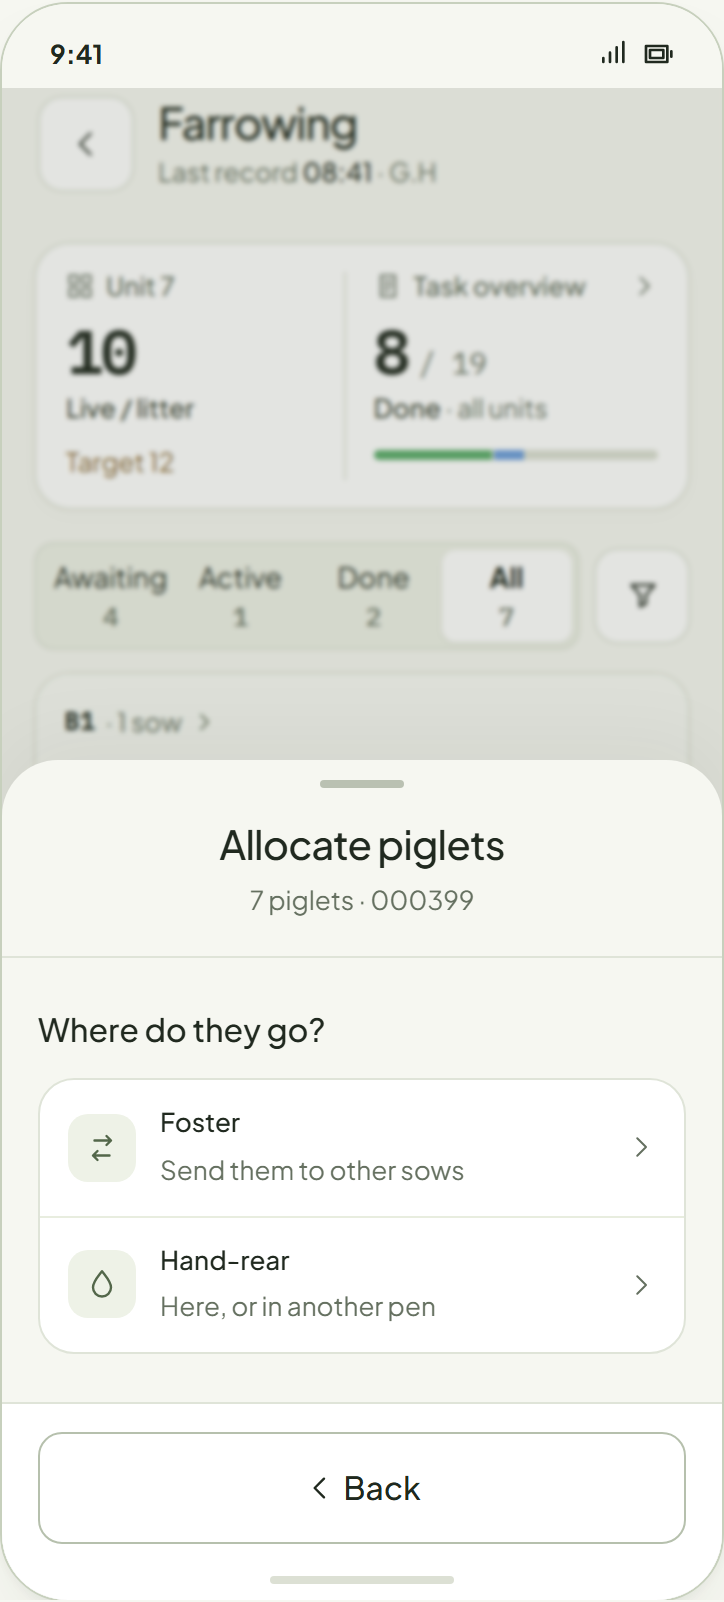
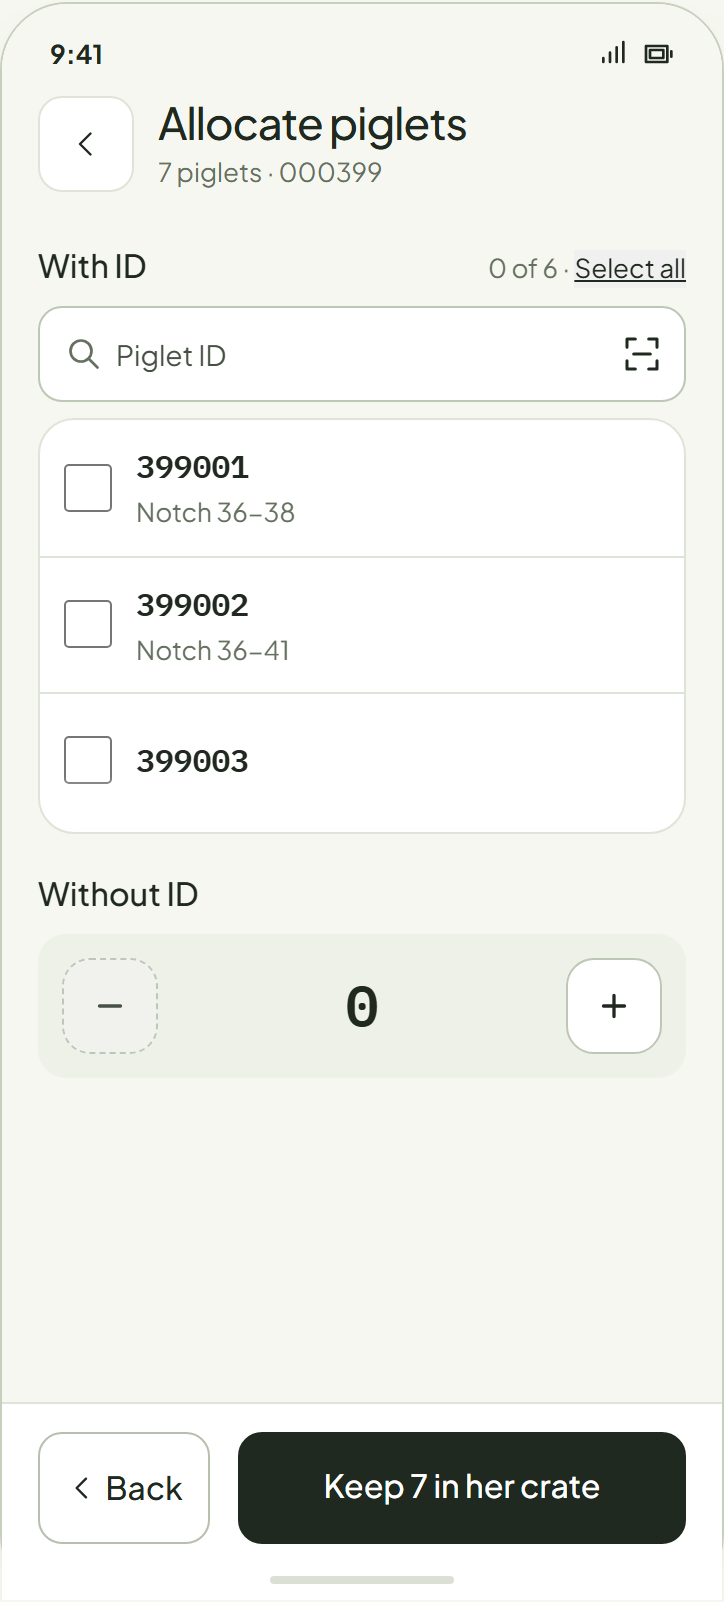
Allocate is her litter's piglet list: tick piglets (search, scan, a count without ID), then Move to a pen or Send to a sow; each takes them off the list into Sent and moved; what is left is kept in her crate (Keep N in her crate). The Foster / Hand-rear question and the Hand-rear drawer go

diff --git a/ux/system/farrowing-astra-concept.js b/ux/system/farrowing-astra-concept.js
@@ -138,28 +138,27 @@ function act(s,a,v){
  // Allocate piglets (owner, 2026-11-02): a menu drawer of three verbs; each pushes its own page and Back returns to the drawer. Foster
  // is the Foster piglets page itself, foster off only (Foster on is there, disabled); each save comes back to it while piglets are left,
  // so 3 can go to one sow and 3 to another. Hand-rear and the rearing pen take what is left, from their pages.
- if(a==='allocFoster'){s.featureReturn='allocate';s.fosterDraft=fosterStart(s,s.alive);s.view='foster';}
- if(a==='allocHandPage'){s.handDraft={moves:[]};s.view='allocHand';}
- // Hand-rear (owner, 2026-11-03): they stay in her crate unless moved; Move some to another pen adds a pen with a count, so 2 can go to
- // one pen and 5 to another. Her crate keeps what is not moved.
- if(a==='handAddPen'){s.handDraft.q='';s.handDraft.scanning=false;s.view='allocHandPen';}
- if(a==='handPenClear')s.handDraft.q='';
- if(a==='handPenScan'){s.handDraft.scanning=roomContext(s).scan.connected?true:'waiting';s.handDraft.q='';}
- if(a==='handPenScanStop')s.handDraft.scanning=false;
- if(a==='handPen'){const [unit,pen]=String(v).split('|'),m=s.handDraft.moves;if(!m.some(x=>x.unit===unit&&x.pen===pen)&&handCrate(s)>0)m.push({unit,pen,n:1});s.handDraft.scanning=false;s.view='allocHand';}
- if(a==='handCount'){const [i,d]=String(v).split(',').map(Number),m=s.handDraft.moves[i];if(m){m.n=Math.max(0,Math.min(m.n+handCrate(s),m.n+d));if(!m.n)s.handDraft.moves.splice(i,1);}}
- // Allocate's sow picker opens filtered to her own unit. The filter is the room's (expected farrowing, parity) plus the unit, whose chips
- // reach the batch's other units; All is no unit filter (owner, 2026-11-02). The sheet works on a draft: Show N sows applies it, Reset
- // returns to the defaults (her unit, any time, any parity), Back drops it.
+ // Allocate piglets (owner, 2026-11-03): her litter's piglet list. Tick piglets (with an ID by tick, search or scan; without one by a
+ // count), then Send to a sow or Move to a pen; each takes its piglets off the list. The ones left stay: Keep N in her crate hand-rears them.
+ if(a==='allocAll'){const f=allocDraft(s),all=fosterIds(s).map(p=>p.tag),full=f.ids.length===all.length&&f.count===fosterNoId(s);f.ids=full?[]:all;f.count=full?0:fosterNoId(s);}
+ if(a==='allocToSow'&&allocPicked(s)){s.featureReturn='allocate';Object.assign(s.fosterDraft,{q:'',scanning:false,direction:'out',target:''});s.view='foster';}
+ if(a==='allocToPen'&&allocPicked(s)){Object.assign(s.fosterDraft,{penQ:'',penScan:false});s.view='allocPen';}
+ if(a==='allocPenClear')s.fosterDraft.penQ='';
+ if(a==='allocPenScan'){s.fosterDraft.penScan=roomContext(s).scan.connected?true:'waiting';s.fosterDraft.penQ='';}
+ if(a==='allocPenScanStop')s.fosterDraft.penScan=false;
+ if(a==='allocPen'){const f=s.fosterDraft,[unit,pen]=String(v).split('|'),c=roomContext(s),ids=f.ids.slice(),n=ids.length+f.count;if(!n)return;
+  s.piglets=s.piglets.filter(p=>!ids.includes(p.tag));s.alive-=n;s.moved=(s.moved||0)+n;s.unidentified=fosterNoId(s);s.anchor=born(s);
+  const where=`${rowText.pen(pen)} · ${farmUnit(c,unit).name}`;event(s,`${n} piglet${n===1?'':'s'} moved to ${where}${ids.length?' · ID '+ids.join(', '):''}`,'milestone');
+  (s.allocSent||=[]).push({kind:'moved',where,n,ids});s.fosterDraft=null;s.view=toAllocate(s)?'allocate':'room';}
  if(a==='fosterFilter'){s.fosterDraft.filtering=true;s.fosterDraft.filterDraft=clone(s.fosterDraft.filter);}
  if(a==='fosterUnit')s.fosterDraft.filterDraft.unit=v;
  if(a==='fosterFilterReset')s.fosterDraft.filterDraft=fosterFilterDefault(s);
  if(a==='fosterFilterApply'){s.fosterDraft.filter=s.fosterDraft.filterDraft;s.fosterDraft.filtering=false;}
  if(a==='fosterFilterBack')s.fosterDraft.filtering=false;
- if(a==='allocMove')act(s,'allocFoster');
- if(a==='allocHand'){const n=s.alive,moves=(s.handDraft?.moves||[]).filter(m=>m.n),out=sum(moves.map(m=>m.n)),crate=n-out,c=roomContext(s);s.handReared={at:'09:41',who:'G.H',crate,moves};if(out){s.alive-=out;s.moved=(s.moved||0)+out;s.unidentified=Math.max(0,(s.unidentified||0)-out);s.anchor=born(s);}
-  event(s,[`${n} piglet${n===1?'':'s'} hand-reared`,crate?`${crate} in her crate`:'',...moves.map(m=>`${m.n} to ${farmUnit(c,m.unit).name} · ${m.pen}`)].filter(Boolean).join(' · '),'milestone');s.handDraft=null;s.view='room';}
+ if(a==='allocMove')s.view='allocate';
+ if(a==='allocHand'){const n=s.alive;s.handReared={at:'09:41',who:'G.H'};event(s,`${n} piglet${n===1?'':'s'} hand-reared in her crate`,'milestone');s.fosterDraft=null;s.view='room';}   // the ones left stay
  if(a==='fosterDirection'){s.fosterDraft.direction=v;s.fosterDraft.start=1;s.fosterDraft.target='';}   // the page's first choice: send to, or receive from, the sow tapped next
+ if(a==='fosterPick'&&s.featureReturn==='allocate'){s.fosterDraft.target=v;s.view='allocConfirm';return;}   // the piglets are already chosen: confirm the sow
  if(a==='fosterPick'){const f=s.fosterDraft;f.target=v;f.start=Math.min(f.start,s.alive);fosterOpen(s);s.view='fosterSend';}   // a tap or a read pushes Foster off (or on): who, and how many
  if(a==='fosterId'){const f=s.fosterDraft,k=f.ids.indexOf(v);if(k<0)f.ids.push(v);else f.ids.splice(k,1);}
  // The ID list searches by piglet ID, or scans: each read ticks that piglet (a multi-select place, owner 2026-10-22), never unticks.
@@ -176,8 +175,8 @@ function act(s,a,v){
   ids.forEach(tag=>{const i=(from.piglets||[]).findIndex(p=>p.tag===tag);if(i>=0)(to.piglets||=[]).push(from.piglets.splice(i,1)[0]);});
   from.alive-=n;from.moved=(from.moved||0)+n;to.alive+=n;to.moved=(to.moved||0)-n;from.unidentified=fosterNoId(from);to.unidentified=fosterNoId(to);[from,to].forEach(r=>{if(!r.locked)r.anchor=born(r);});
   event(s,`${word} ${out?'to':'from'} ${other.tag}${idText}`,'milestone');event(other,`${word} ${out?'from':'to'} ${s.tag}${idText}`,'milestone');f.target='';f.ids=[];
-  if(s.featureReturn==='allocate')(s.allocSent||=[]).push({tag:other.tag,pen:other.pen,n,ids});   // Allocate lists what has gone where
-  if(s.featureReturn==='allocate'){s.view=toAllocate(s)?'foster':'room';}else if(s.featureReturn==='pigletCare'){s.pigletTab='records';s.view='pigletCare';}else{s.actionsEntry=true;s.view='profile';}}
+  if(s.featureReturn==='allocate')(s.allocSent||=[]).push({kind:'sent',tag:other.tag,pen:other.pen,n,ids});   // Allocate lists what has gone where
+  if(s.featureReturn==='allocate'){s.fosterDraft=null;s.view=toAllocate(s)?'allocate':'room';}else if(s.featureReturn==='pigletCare'){s.pigletTab='records';s.view='pigletCare';}else{s.actionsEntry=true;s.view='profile';}}
  if(a==='openMortality'){if(!s.pigletSelected.length&&!s.unidentified)return;s.mortalityDraft={cause:'',unidentified:0,photos:[]};s.view='pigletDeath';}
  if(a==='mortalityCount'){const max=Math.min(s.unidentified,s.alive-s.pigletSelected.length);s.mortalityDraft.unidentified=Math.max(0,Math.min(max,s.mortalityDraft.unidentified+Number(v)));}
  if(a==='savePigletMortality'){const f=s.mortalityDraft,total=s.pigletSelected.length+f.unidentified;if(!f.cause||!total)return;const selected=new Set(s.pigletSelected);s.piglets.forEach(p=>{if(selected.has(p.tag))p.state='Dead';});s.unidentified=Math.max(0,s.unidentified-f.unidentified);s.alive=Math.max(0,s.alive-total);const typeIndex={Stillborn:0,Mummified:1,Crushed:2,Scours:3,'Starve-out':4,Other:5,'Cause unknown':5}[f.cause]??5;s.dead[typeIndex]+=total;s.frozen=Math.max(s.frozen,born(s));event(s,`${total} piglet${total===1?'':'s'} died · ${f.cause.toLowerCase()}`,'danger',f.photos);s.pigletSelected=[];s.pigletTab='records';s.view='pigletCare';}
@@ -185,8 +184,8 @@ function act(s,a,v){
  if(a==='countReconcileStep'){const identified=s.piglets.filter(p=>p.state==='Alive').length;s.countDraft=Math.max(identified,Math.min(30,s.countDraft+Number(v)));}
  if(a==='saveCountReconcile'){if(s.countDraft===s.alive||!s.countReason.trim())return;const before=s.alive,diff=s.countDraft-before;s.alive=s.countDraft;s.unidentified=Math.max(0,s.unidentified+diff);s.anchor=born(s);if(s.locked)s.frozen=Math.max(s.frozen,born(s));event(s,`Piglet count corrected · ${before} → ${s.alive} · ${s.countReason.trim()}`,'correction');s.actionsEntry=true;s.view='profile';}
  if(a==='featureBack'&&s.view==='fosterSend'){s.fosterDraft.target='';s.view='foster';return;}   // back to the sows
- if(a==='featureBack'&&s.view==='allocHandPen'){s.view='allocHand';return;}   // back to Hand-rear
- if(a==='featureBack'&&s.view==='allocHand'){s.handDraft=null;s.view='allocate';return;}   // back to the question, nothing recorded
+ if(a==='featureBack'&&s.view==='allocConfirm'){s.fosterDraft.target='';s.view='foster';return;}   // back to the sows
+ if(a==='featureBack'&&s.view==='allocPen'){s.view='allocate';return;}   // back to her piglets, nothing moved
  if(a==='featureBack'){if(s.view==='foster'&&s.featureReturn==='allocate'){s.view='allocate';}else if(['pigletEdit','pigletDeath'].includes(s.view)||s.view==='foster'&&s.featureReturn==='pigletCare'){s.pigletTab='records';s.view='pigletCare';}else if(s.scanReturn){s.scanReturn=false;s.actionsEntry=false;s.view=s.pageBack||'roomScan';}else{s.actionsEntry=true;s.view='profile';}}   // opened from Scan's Actions: Back returns to the scan list
 }
 // Merge every saved event in the pen, independent of the current list filters.
@@ -240,10 +239,10 @@ function atlasScreen(s,c){
  if(v==='locked')return s.ended?'farrowing.ended':'farrowing.locked';
  if(v==='history')return 'farrowing.history';
  if(v==='foster'){const f=s.fosterDraft;if(s.featureReturn==='allocate')return f.filtering?'farrowing.allocate-filter':'farrowing.allocate-foster';return f.filtering?'farrowing.foster-filter':f.scanning?'farrowing.foster-scanning':f.q.trim()?'farrowing.foster-search':'farrowing.foster';}
- if(v==='fosterSend')return s.featureReturn==='allocate'?'farrowing.allocate-send':'farrowing.foster-send';
- if(v==='allocHand')return 'farrowing.allocate-hand';
- if(v==='allocHandPen')return 'farrowing.allocate-hand-pen';
- if(v==='allocate')return 'farrowing.allocate';
+ if(v==='fosterSend')return 'farrowing.foster-send';
+ if(v==='allocPen')return 'farrowing.allocate-pen';
+ if(v==='allocConfirm')return 'farrowing.allocate-confirm';
+ if(v==='allocate')return allocPicked(s)?'farrowing.allocate-pick':'farrowing.allocate';
  if(v==='countReconcile')return 'farrowing.reconcile';
  if(v==='roomOverview')return 'farrowing.overview';
  if(v==='roomTaskReceipt')return 'farrowing.task-receipt';
@@ -260,7 +259,7 @@ function atlasScreen(s,c){
  if(v==='profile'&&s.actionsEntry)return 'farrowing.sow-actions';
  return null;
 }
-const presets=[['room','Room list'],['count','Counting'],['visit','Counting · not saved yet'],['saved','Counting · just saved'],['undo','Undo the last save'],['litter','Litter details'],['details','Details · a finished sow'],['details-first','Details · first litter'],['before','Before first count'],['draft','Death entry'],['finish','Finish'],['locked','Locked record'],['history','Farrowing log'],['ended','Sow died'],['allocate','Sow died · allocate piglets'],['allocate-foster','Allocate · foster'],['allocate-send','Allocate · send to a sow'],['allocate-filter','Allocate · filter sows'],['allocate-hand','Allocate · hand-rear'],['allocate-hand-split','Allocate · hand-rear, moved to two pens'],['task-blocked','End task · active sows'],['task-ready','End task · awaiting sows'],['task-complete','End task · all finished'],['task-outcomes','End task · production outcomes'],['foster','Foster piglets'],['foster-search','Foster · search a pen'],['foster-scanning','Foster · scanning'],['foster-send','Foster · send to a sow'],['foster-filter','Foster · filter sows'],['foster-receive','Foster · receive piglets'],['reconcile','Reconcile piglet count'],['search-empty','Find a sow'],['search-results','Find a sow · results'],['search-none','Find a sow · no match'],['scan-none','Scan · reader not connected'],['scan-empty','Scan · listening'],['scan-read','Scan · her drawer opened'],['scan-pig','Scan · a pig not in Farrowing'],['scan-dead','Scan · a pig that died'],['scan-unknown','Scan · a tag with no pig'],['scan-stopped','Scan · stopped'],['batch-sheet','Actions · pigs in this unit'],['batch-none','Choose pigs · none yet'],['batch-pick','Choose pigs · 3 chosen'],['batch-search','Choose pigs · search'],['batch-filter','Choose pigs · filter'],['batch-scanning','Choose pigs · scanning'],['batch-waiting','Choose pigs · waiting for the reader'],['batch-missed','Choose pigs · reads that cannot join'],['batch-form','Actions · the form'],['batch-saved','Actions · saved']];
+const presets=[['room','Room list'],['count','Counting'],['visit','Counting · not saved yet'],['saved','Counting · just saved'],['undo','Undo the last save'],['litter','Litter details'],['details','Details · a finished sow'],['details-first','Details · first litter'],['before','Before first count'],['draft','Death entry'],['finish','Finish'],['locked','Locked record'],['history','Farrowing log'],['ended','Sow died'],['allocate','Sow died · allocate piglets'],['allocate-pick','Allocate · three ticked'],['allocate-foster','Allocate · send to a sow'],['allocate-filter','Allocate · filter sows'],['allocate-confirm','Allocate · confirm the sow'],['allocate-after','Allocate · after a send'],['allocate-pen','Allocate · move to a pen'],['task-blocked','End task · active sows'],['task-ready','End task · awaiting sows'],['task-complete','End task · all finished'],['task-outcomes','End task · production outcomes'],['foster','Foster piglets'],['foster-search','Foster · search a pen'],['foster-scanning','Foster · scanning'],['foster-send','Foster · send to a sow'],['foster-filter','Foster · filter sows'],['foster-receive','Foster · receive piglets'],['reconcile','Reconcile piglet count'],['search-empty','Find a sow'],['search-results','Find a sow · results'],['search-none','Find a sow · no match'],['scan-none','Scan · reader not connected'],['scan-empty','Scan · listening'],['scan-read','Scan · her drawer opened'],['scan-pig','Scan · a pig not in Farrowing'],['scan-dead','Scan · a pig that died'],['scan-unknown','Scan · a tag with no pig'],['scan-stopped','Scan · stopped'],['batch-sheet','Actions · pigs in this unit'],['batch-none','Choose pigs · none yet'],['batch-pick','Choose pigs · 3 chosen'],['batch-search','Choose pigs · search'],['batch-filter','Choose pigs · filter'],['batch-scanning','Choose pigs · scanning'],['batch-waiting','Choose pigs · waiting for the reader'],['batch-missed','Choose pigs · reads that cannot join'],['batch-form','Actions · the form'],['batch-saved','Actions · saved']];
 const cards=[{title:'Find the next sow',caption:'<strong>The room, in context.</strong> Filter by state, jump to a pen, and open each sow’s live record.',initial:'room'},{title:'Finish with confidence',caption:'<strong>Two observations, then the lock.</strong> Clear rows, optional details and a deliberate final action.',initial:'finish'},{title:'Read the whole litter',caption:'<strong>Current facts, with their context.</strong> Finish details stay readable; the history opens on its own page.',initial:'locked'}];
 const states=cards.map(c=>{const r=seed(c.initial);restoreDraft(r);return r;});
 // Scenario gate hook (scripts/run-scenarios.mjs): read-only access to the live records for record assertions. Draws nothing.
@@ -292,7 +291,6 @@ function identity(s){
  // Headers (owner, 2026-10-13; features/farrowing/budget.md ## Headers): the sow's record drawer is the hub and carries the route line, her
  // chip and the two facts that tell her apart at farrowing (her pen, her parity). Actions launched from it carry no line: it is one Back away.
  const route=(facts)=>({chip:{id:s.tag,action:'profile',label:'View sow '+s.tag+' details'},facts});
- if(s.view==='allocate')return {surface:'menu',title:'Allocate piglets',close:false,label:'Allocate piglets',line:{text:[{text:`${s.alive} piglet${s.alive===1?'':'s'}`},{text:' · '+s.tag}]}};
  if(s.view==='finish')return {title:'Finish farrowing',close:{action:'dismiss',label:'Close finish drawer'}};
  if(s.view==='death')return {title:s.locked||s.ended?'Record dead':'Report death',close:false};
  return {title:'Farrowing record',line:route([sowPlace(s),'Parity '+s.parity]),close:{action:'dismiss',label:'Close sow drawer'},label:'Sow '+s.tag};
@@ -836,7 +834,7 @@ function roomAction(i,a,v){if(!a.startsWith('room-'))return false;const s=states
  return true;
 }
 function pageAfterRender(i,s,c,root){
- const demo=root.querySelector('[data-demo-scan]');if(demo){demo.hidden=s.view==='allocHandPen'?!s.handDraft?.scanning:s.view==='fosterSend'?!s.fosterDraft.idScan:fosterPicking(s)?!s.fosterDraft.scanning:s.view==='roomBatchPick'?!c.batch?.scanning:s.view!=='roomScan'||!c.scan.connected;demo.disabled=s.view==='roomScan'&&!c.scan.listening;demo.textContent=s.view==='roomBatchPick'&&c.batch?.scanning==='waiting'||(s.view==='fosterSend'?s.fosterDraft.idScan:fosterPicking(s)&&s.fosterDraft.scanning)==='waiting'?'Simulate reader on':'Simulate scan';}
+ const demo=root.querySelector('[data-demo-scan]');if(demo){demo.hidden=s.view==='allocPen'?!s.fosterDraft?.penScan:['fosterSend','allocate'].includes(s.view)?!s.fosterDraft?.idScan:fosterPicking(s)?!s.fosterDraft.scanning:s.view==='roomBatchPick'?!c.batch?.scanning:s.view!=='roomScan'||!c.scan.connected;demo.disabled=s.view==='roomScan'&&!c.scan.listening;demo.textContent=s.view==='roomBatchPick'&&c.batch?.scanning==='waiting'||(['fosterSend','allocate'].includes(s.view)?s.fosterDraft?.idScan:s.view==='allocPen'?s.fosterDraft?.penScan:fosterPicking(s)&&s.fosterDraft.scanning)==='waiting'?'Simulate reader on':'Simulate scan';}
  if(s.view==='roomPig')connectPig(root,c);
  if(s.view==='roomBatchForm')connectBatchForm(root,c);
  // The pig just read is brought into view where she is, and her row keeps Row's Just scanned state for a moment.
@@ -905,46 +903,46 @@ function finish(s){
 function moreSowActions(s){return btn('sowActions',`Actions ${icon('chevron')}`,'more-sow-actions').replace('<button',`<button aria-label="Actions for sow ${s.tag}"`);}
 function recordActions(s){const pending=sum(s.deathDraft);return `<div class="record-inline-actions" aria-label="Record actions"><div class="record-action-group" role="group" aria-label="Quick actions">${btn('death',`${icon('alert')}<span>Record dead</span>${pending?`<small>${pending} unsaved</small>`:''}`,'record-toolbar-action')}${btn('sowActions',`${icon('more')}<span>Actions</span>`,'record-toolbar-action record-toolbar-more').replace('<button',`<button aria-label="Actions for sow ${s.tag}"`)}</div></div>`;}
 function recordNavigation(primary=''){return footer(SentriUI.backButton({action:'close'}),primary,'execution-completion');}
-// Right after the hold records her death (or from her row while piglets wait): where do her piglets go? A menu drawer (owner,
-// 2026-11-02): the question, then three choice rows, each its title over what it means; a row opens its next step (Foster its page,
-// Hand-rear and the rearing pen a drawer each) and Back here means later. What has already gone where sits under them.
-// Header line (information budget): the piglets left and her tag. Pen and time of death are on her row.
+// Right after the hold records her death (or from her row while piglets wait): her piglets (owner, 2026-11-03: open the litter's list;
+// tick some to do one thing, more to do another). The piglets with an ID are ticked (search or scan a tag), the rest counted. Ticked:
+// Send to a sow (the sow picker, then a confirm) or Move to a pen (Move's pen picker; a tap moves them). Each takes its piglets off the
+// list and adds a line to Sent and moved. Nothing ticked: Keep N in her crate hand-rears the ones left. Back here means later.
+function allocDraft(s){if(!s.fosterDraft?.alloc)s.fosterDraft={...fosterStart(s,0),ids:[],count:0,alloc:true};return s.fosterDraft;}
+const allocPicked=s=>s.fosterDraft?.alloc?s.fosterDraft.ids.length+s.fosterDraft.count:0;
 function allocate(s){
- // Each choice is a navigation row (owner, 2026-11-02: the question should look better): its icon tile, its name over what it means, ›.
- const rows=[SentriUI.row({variant:'navigation',icon:icon('transfer'),title:'Foster',description:'Send them to other sows',action:'allocFoster',trail:'chevron'}),SentriUI.row({variant:'navigation',icon:icon('drop'),title:'Hand-rear',description:'Here, or in another pen',action:'allocHandPage',trail:'chevron'})];
- return {cls:'allocate-body',body:SentriUI.heading({title:'Where do they go?',kind:'section',level:3,className:'allocate-question'})+SentriUI.rowGroup(rows.join(''))+allocSentList(s),footer:footer(SentriUI.backButton({action:'close'}))};
+ const f=allocDraft(s),n=s.alive,pigs=`${n} piglet${n===1?'':'s'}`,withId=fosterIds(s),noId=fosterNoId(s),k=allocPicked(s),all=f.ids.length===withId.length&&f.count===noId;
+ const ids=withId.length?fosterIdList(withId,f,{label:all?'Clear':'Select all',action:'allocAll'}):'';
+ const rest=noId?`<section class="feature-section">${farmStepper({variant:'well',label:withId.length?'Without ID':'Piglets',value:f.count,min:0,max:noId,action:'fosterCount',reserveHint:false})}</section>`:'';
+ const foot=k?footer(btn('allocToPen',`Move ${k} to a pen`,'button alloc-pen'),btn('allocToSow',`Send ${k} to a sow`,'button primary'),'alloc-split'):footer(SentriUI.backButton({action:'close'}),btn('allocHand',`Keep ${n} in her crate`,'button primary'));
+ const page=SentriUI.sheet({variant:'page',title:'Allocate piglets',line:`${pigs} · ${s.tag}`,back:{action:'close'},body:allocSentList(s)+ids+rest,bodyClass:'allocate-body',footer:foot,className:'feature-page allocate-page',label:'Allocate piglets',bar:status()});
+ if(s.view==='allocConfirm')return '<div class="page-background" inert aria-hidden="true">'+fosterPage(s)+'</div>'+allocConfirm(s);   // over the sows
+ const layer=s.view==='allocPen'?allocPenPage(s):'';
+ return layer?'<div class="page-background" inert aria-hidden="true">'+page+'</div>'+layer:page;
 }
-// What has gone where so far (owner, 2026-11-02): one row per send, the sow, her pen, the IDs that went and how many.
+// Send: the sow is chosen on the sow picker; this confirms who takes which piglets.
+function allocConfirm(s){
+ const f=s.fosterDraft,other=fosterSow(s,f.target);if(!other)return '';const n=f.ids.length+f.count;
+ const what=SentriUI.row({variant:'navigation',icon:icon('transfer'),title:`${n} piglet${n===1?'':'s'}`,description:[f.ids.length?'ID '+f.ids.join(', '):'',f.count?`${f.count} without ID`:''].filter(Boolean).join(' · ')});
+ return SentriUI.sheet({variant:'drawer',surface:'menu',title:'Send piglets',line:{text:[{text:'To '},{text:other.tag,strong:true},{text:` · ${rowText.pen(other.pen)} · ${other.farm?other.stage:rowText.alive(other.alive)}`}]},body:SentriUI.rowGroup(what),bodyClass:'alloc-done-body',footer:footer(SentriUI.backButton({action:'featureBack'}),btn('saveFoster',`Send ${n} piglet${n===1?'':'s'}`,'button primary')),size:'short',sizing:'content',label:'Send piglets',scrim:{action:'featureBack',label:'Back to the sows'}});
+}
+// What has gone where so far: one row per send or move, where they went, the IDs that went and how many.
 function allocSentList(s){
  if(!(s.allocSent||[]).length)return '';
- return `<section class="allocate-sent">${SentriUI.heading({title:'Sent',kind:'group',level:4})}${SentriUI.panel(s.allocSent.map(x=>SentriUI.row({variant:'animal',code:x.tag,description:[rowText.pen(x.pen),x.ids.length?'ID '+x.ids.join(', '):''].filter(Boolean).join(' · '),right:{kind:'state',figure:`${x.n} piglet${x.n===1?'':'s'}`,word:'',level:'settled'}})).join(''),{className:'st-row-group allocate-sent-rows'})}</section>`;
-}
-// Hand-rear (owner, 2026-11-03: the rearing pen folds in here; the drawer must not ask the question again): a drawer on the tint whose
-// white card is the answer itself: at first one line, they are hand-reared in her crate; once some move, where each lot is. Move some
-// to another pen sits under the card as a quiet button; it goes once none are left. Back returns to the question, nothing recorded.
-const handCrate=s=>s.alive-sum((s.handDraft?.moves||[]).map(m=>m.n));
-function allocDonePage(s){
- const n=s.alive,pigs=`${n} piglet${n===1?'':'s'}`,c=roomContext(s),moves=s.handDraft?.moves||[],crate=handCrate(s);
- // Nothing moved: hand-rearing in her crate is the default, so the drawer only says so (owner, 2026-11-03: nothing to tap). Once some move,
- // the card lists where they are: what stays in her crate, then each pen with its own count.
- const note=`<div class="hand-note">${icon('drop')}<p>${pigs} will be hand-reared in her crate, ${rowText.pen(s.pen)}.</p></div>`;
- const crateRow=SentriUI.row({variant:'navigation',icon:icon('drop'),title:crate?`${crate} ${crate===1?'stays':'stay'} in her crate`:'None stay in her crate',description:rowText.pen(s.pen)});
- const moveRows=moves.map((m,i)=>`<div class="hand-move">${farmStepper({variant:'row',label:`${rowText.pen(m.pen)} · ${farmUnit(c,m.unit).name}`,value:m.n,min:0,max:m.n+crate,action:'handCount',reserveHint:false},i+',')}</div>`).join('');
- const add=crate?SentriUI.button({register:'secondary',label:'Move some to another pen',icon:icon('plus'),action:'handAddPen',className:'hand-add'}):'';
- return SentriUI.sheet({variant:'drawer',surface:'menu',title:'Hand-rear',line:{text:[{text:pigs},{text:' · '+s.tag}]},body:(moves.length?SentriUI.rowGroup(crateRow+moveRows):SentriUI.panel(note,{className:'hand-note-card'}))+add,bodyClass:'alloc-done-body',footer:footer(SentriUI.backButton({action:'featureBack'}),btn('allocHand',`Hand-rear ${pigs}`,'button primary')),size:'medium',sizing:'content',label:'Hand-rear',scrim:{action:'featureBack',label:'Back to Allocate piglets'}});
+ const row=x=>SentriUI.row({variant:'navigation',icon:icon(x.kind==='moved'?'barn':'transfer'),title:x.kind==='moved'?`To ${x.where}`:`To ${x.tag} · ${rowText.pen(x.pen)}`,description:x.ids.length?'ID '+x.ids.join(', '):'Without ID',trailing:{text:String(x.n)}});
+ return `<section class="allocate-sent">${SentriUI.heading({title:'Sent and moved',kind:'group',level:4})}${SentriUI.rowGroup(s.allocSent.map(row).join(''))}</section>`;
 }
 // Move to a pen is Move's destination picker (features/move: her unit pinned first, her own crate dimmed, search reaches any pen and the
-// scan reads a pen's plate, a tap picks and closes). A pen already chosen is dimmed too.
-function handPenOptions(s){
- const c=roomContext(s),home=homeUnit(s),taken=new Set((s.handDraft?.moves||[]).map(m=>m.unit+'|'+m.pen)),q=(s.handDraft?.q||'').trim().toLowerCase();
- return [home,...c.units.filter(u=>u!==home)].flatMap(u=>[...new Set(u.records.map(r=>r.pen))].sort((a,b)=>a.localeCompare(b,undefined,{numeric:true})).filter(p=>!q||p.toLowerCase().includes(q)).map(p=>{const own=u===home&&p===s.pen,added=taken.has(u.id+'|'+p);return [u.id+'|'+p,rowText.pen(p),'',u.name,own||added?{disabled:true,reason:own?'Her crate':'Added'}:undefined];}));
+// scan reads a pen's plate, a tap moves the ticked piglets and closes).
+function allocPenOptions(s){
+ const c=roomContext(s),home=homeUnit(s),q=(s.fosterDraft?.penQ||'').trim().toLowerCase();
+ return [home,...c.units.filter(u=>u!==home)].flatMap(u=>[...new Set(u.records.map(r=>r.pen))].sort((a,b)=>a.localeCompare(b,undefined,{numeric:true})).filter(p=>!q||p.toLowerCase().includes(q)).map(p=>{const own=u===home&&p===s.pen;return [u.id+'|'+p,rowText.pen(p),'',u.name,own?{disabled:true,reason:'Her crate'}:undefined];}));
 }
-function allocHandPenPage(s){
- const d=s.handDraft||{},opts=handPenOptions(s);
- const bar=d.scanning?SentriUI.scanBar({state:d.scanning==='waiting'?'waiting':'scanning',device:'Reader 1',text:d.scanning==='waiting'?'':'Scan the pen plate',stop:{action:'handPenScanStop'}})
-  :SentriUI.choiceSearch({label:'Search pen',placeholder:'Pen',value:d.q||'',attrs:{'data-hand-pen-search':''},clear:{action:'handPenClear'},scan:{action:'handPenScan',label:'Scan pen plate'}});
- const list=opts.length?SentriUI.pickerOptions({options:opts,action:'handPen'}):`<p class="st-find-hint">No pen matching “${esc((d.q||'').trim())}”.</p>`;
- return SentriUI.sheet({variant:'drawer',surface:'menu',title:'Move to a pen',line:{text:[{text:'Hand-rear · '+s.tag}]},body:`<div class="hand-pen-bar">${bar}</div><div class="hand-pen-list">${list}</div>`,bodyClass:'alloc-done-body',footer:footer(SentriUI.backButton({action:'featureBack'})),size:'long',sizing:'content',label:'Move to a pen',scrim:{action:'featureBack',label:'Back to Hand-rear'}});
+const allocPenList=s=>{const o=allocPenOptions(s);return o.length?SentriUI.pickerOptions({options:o,action:'allocPen'}):`<p class="st-find-hint">No pen matching “${esc((s.fosterDraft?.penQ||'').trim())}”.</p>`;};
+function allocPenPage(s){
+ const f=s.fosterDraft,k=allocPicked(s);
+ const bar=f.penScan?SentriUI.scanBar({state:f.penScan==='waiting'?'waiting':'scanning',device:'Reader 1',text:f.penScan==='waiting'?'':'Scan the pen plate',stop:{action:'allocPenScanStop'}})
+  :SentriUI.choiceSearch({label:'Search pen',placeholder:'Pen',value:f.penQ||'',attrs:{'data-alloc-pen-search':''},clear:{action:'allocPenClear'},scan:{action:'allocPenScan',label:'Scan pen plate'}});
+ return SentriUI.sheet({variant:'drawer',surface:'menu',title:'Move to a pen',line:{text:[{text:`${k} piglet${k===1?'':'s'} · ${s.tag}`}]},body:`<div class="hand-pen-bar">${bar}</div><div class="hand-pen-list">${allocPenList(s)}</div>`,bodyClass:'alloc-done-body',footer:footer(SentriUI.backButton({action:'featureBack'})),size:'long',sizing:'content',label:'Move to a pen',scrim:{action:'featureBack',label:'Back to her piglets'}});
 }
 // The finished sow (owner, 2026-11-02): her drawer says only what happened this time, one ring of where the litter went in a card that
 // opens Details (a tappable card in a white drawer: white body, tinted head band); her actions sit in the bar, nothing stacked in the body.
@@ -1125,13 +1123,15 @@ function fosterPreset(i,p){
  if(p==='foster-filter')act(s,'fosterFilter');
  if(p==='foster-receive')act(s,'fosterDirection','in');
 }
-// Allocate's states over the allocate preset (000399, 7 piglets): its Foster page, Foster off for a sow, the filter, the Hand-rear page.
+// Allocate's states over the allocate preset (000399, 7 piglets): three ticked, then the sow picker, its filter, the confirm, after the send, the pen picker.
 function allocPreset(i,p){
- const s=states[i]=seed('allocate');s.preset=p;
- if(/^allocate-hand/.test(p))act(s,'allocHandPage');else act(s,'allocFoster');
- if(p==='allocate-hand-split'){act(s,'handPen','7|B1');act(s,'handCount','0,1');act(s,'handPen','6|A1');act(s,'handCount','1,1');act(s,'handCount','1,1');act(s,'handCount','1,1');act(s,'handCount','1,1');}
- if(p==='allocate-send')act(s,'fosterPick','000418');
+ const s=states[i]=seed('allocate');s.preset=p;allocDraft(s);
+ act(s,'fosterId','399001');act(s,'fosterId','399002');act(s,'fosterCount','1');   // three ticked: two with an ID, one without
+ if(['allocate-foster','allocate-filter','allocate-confirm','allocate-after'].includes(p))act(s,'allocToSow');
  if(p==='allocate-filter')act(s,'fosterFilter');
+ if(['allocate-confirm','allocate-after'].includes(p))act(s,'fosterPick','000418');
+ if(p==='allocate-after')act(s,'saveFoster');
+ if(p==='allocate-pen')act(s,'allocToPen');
 }
 function fosterCandidates(s){const c=roomContext(s);return c.units.flatMap(unit=>unit.records.filter(r=>r!==s&&onList(r)&&!r.ended&&!r.productionOutcome&&born(r)>0).map(r=>({r,unit})));}
 const fosterSow=(s,tag)=>fosterCandidates(s).find(x=>x.r.tag===tag)?.r||(p=>p&&fosterFarmSow(roomContext(s),p))(farmPigs.find(p=>p.tag===tag&&!p.gone));
@@ -1166,8 +1166,8 @@ function fosterPage(s){
  // A dead sow can never receive, so from Allocate the switch is left out and the title says the job (Segment: prefer omission to a
  // disabled option that never comes back; owner, 2026-11-03: the dashed disabled option read wrong).
  const seg=dead?'':dir;
- const line=dead?{text:[{text:`${s.alive} piglet${s.alive===1?'':'s'}`},{text:' · '+s.tag}]}:null;
- const page=SentriUI.sheet({variant:'page',title:dead?'Send piglets':'Foster piglets',line,back:{action:'featureBack'},above:`${seg?`<div class="foster-direction">${seg}</div>`:''}${fosterBar(s,'batch-bar')}`,body:`${dead?allocSentList(s):''}<div class="foster-list">${fosterPickList(s)}</div>`,footer:false,className:'room-utility batch-pick foster-pick',label:'Foster piglets',bar:status()});
+ const k=allocPicked(s),line=dead?{text:[{text:`${k} piglet${k===1?'':'s'}`},{text:' · '+s.tag}]}:null;   // the ones ticked on her list
+ const page=SentriUI.sheet({variant:'page',title:dead?'Send piglets':'Foster piglets',line,back:{action:'featureBack'},above:`${seg?`<div class="foster-direction">${seg}</div>`:''}${fosterBar(s,'batch-bar')}`,body:`<div class="foster-list">${fosterPickList(s)}</div>`,footer:false,className:'room-utility batch-pick foster-pick',label:'Foster piglets',bar:status()});
  const layer=fosterLayer(s);
  return layer?'<div class="page-background" inert aria-hidden="true">'+page+'</div>'+layer:page;
 }
@@ -1218,11 +1218,11 @@ function fosterIdRows(list,f){
 // The box fades its bottom edge while rows sit below it.
 const fosterIdMore=sc=>sc.toggleAttribute('data-more',sc.scrollTop+sc.clientHeight<sc.scrollHeight-1);
 if(typeof document!=='undefined')document.addEventListener('scroll',e=>{if(e.target.matches?.('.foster-id-scroll'))fosterIdMore(e.target);},true);
-function fosterIdList(list,f){
+function fosterIdList(list,f,headAct=null){
  if(!list.length)return '';
  const bar=f.idScan?SentriUI.scanBar({state:f.idScan==='waiting'?'waiting':'scanning',device:'Reader 1',text:f.idScan==='waiting'?'':'Scan piglet tags',stop:{action:'fosterIdScanStop'}})
   :SentriUI.choiceSearch({label:'Search piglet ID',placeholder:'Piglet ID',value:f.idQ,attrs:{'data-foster-id-search':''},clear:{action:'fosterIdClear'},scan:{action:'fosterIdScan',label:'Scan piglet tags'}});
- return `<section class="foster-ids" aria-label="With ID"><p class="foster-ids-head"><span>With ID</span><span class="foster-ids-count">${f.ids.length} of ${list.length}</span></p>${bar}<div class="foster-id-box"><div class="foster-id-scroll">${fosterIdRows(list,f)}</div></div></section>`;
+ return `<section class="foster-ids" aria-label="With ID"><p class="foster-ids-head"><span>With ID</span><span class="foster-ids-count">${f.ids.length} of ${list.length}${headAct?` · ${btn(headAct.action,headAct.label,'link foster-ids-all')}`:''}</span></p>${bar}<div class="foster-id-box"><div class="foster-id-scroll">${fosterIdRows(list,f)}</div></div></section>`;
 }
 // Send (or Receive): a page pushed from the sow tapped (owner, 2026-11-02: too much for a drawer), Back beside the commit. Who the piglets go to (or come
 // from) is its line; the piglets with an ID are ticked by ID, the rest counted; the one commit names how many.
@@ -1244,10 +1244,10 @@ function countReconcilePage(s){
  const body=`<section class="count-compare"><div><span>System count</span><strong>${s.alive}</strong></div></section><section class="feature-section">${farmStepper({variant:'well',label:'Count the piglets in this litter',value:s.countDraft,min:identified,max:30,action:'countReconcileStep',reserveHint:false})}<p class="feature-hint">The count cannot be lower than the ${identified} identified piglets still recorded alive.</p></section>${changed?`<div class="feature-warning">${icon('alert')}<span><strong>Your count will replace ${s.alive}</strong><small>${s.countDraft>s.alive?s.countDraft-s.alive+' piglets will be added without identity.':s.alive-s.countDraft+' piglets without identity will be removed.'}</small></span></div>`:''}${SentriUI.field({label:'Reason for mismatch',control:`<textarea rows="3" data-count-reason placeholder="What explains the difference?">${esc(s.countReason)}</textarea>`,className:'feature-field'})}`;
  return featurePage(s,'Correct piglet count',body,btn('saveCountReconcile','Save corrected count','button primary','',!changed||!s.countReason.trim()),'count-reconcile-page');
 }
-function capabilitySurface(s){return s.view==='fosterSend'?fosterSendPage(s):s.view==='allocHand'?allocDonePage(s):s.view==='allocHandPen'?'<div class="page-background" inert aria-hidden="true">'+allocDonePage(s)+'</div>'+allocHandPenPage(s):s.view==='marker'?markerPage(s):s.view==='pigletCare'?pigletCarePage(s):s.view==='pigletEdit'?pigletEditPage(s):s.view==='foster'?fosterPage(s):s.view==='pigletDeath'?pigletDeathPage(s):s.view==='countReconcile'?countReconcilePage(s):'';}
+function capabilitySurface(s){return s.view==='fosterSend'?fosterSendPage(s):['allocate','allocPen','allocConfirm'].includes(s.view)?allocate(s):s.view==='marker'?markerPage(s):s.view==='pigletCare'?pigletCarePage(s):s.view==='pigletEdit'?pigletEditPage(s):s.view==='foster'?fosterPage(s):s.view==='pigletDeath'?pigletDeathPage(s):s.view==='countReconcile'?countReconcilePage(s):'';}
 
-function farrowingRecordSurface(s){const surface=({count,finish,locked,death,allocate})[s.view];if(!surface)return '';const v=surface(s),h=identity(s),page=AstraSurfaces.isPage('farrowing',s.view);
- const label={allocate:'Allocate piglets',count:'Count alive',finish:'Finish farrowing',locked:'Locked litter',death:'Record dead'}[s.view];
+function farrowingRecordSurface(s){const surface=({count,finish,locked,death})[s.view];if(!surface)return '';const v=surface(s),h=identity(s),page=AstraSurfaces.isPage('farrowing',s.view);
+ const label={count:'Count alive',finish:'Finish farrowing',locked:'Locked litter',death:'Record dead'}[s.view];
  return SentriUI.sheet(Object.assign({variant:page?'page':'drawer',body:v.body,bodyClass:v.cls,corner:v.corner||null,footer:v.footer,size:['death','finish'].includes(s.view)||s.view==='locked'&&lastSave(s)?.afterLock?'long':'medium',sizing:['death'].includes(s.view)?'full':'content',view:s.view,label,scrim:{action:'dismiss',label:'Dismiss sheet'},bar:page?status():''},h));}
 function farrowingBackground(s){
  if(s.view==='roomPicker'){const c=roomContext(s),back=c.picker?.returnView||'';const behind=['roomPenReadNote','roomPenNote','roomPenFault','roomPenFaultRecord'].includes(back)?penSubpage({...s,view:back},c):['marker','pigletCare','pigletEdit','foster','pigletDeath','countReconcile'].includes(back)?capabilitySurface({...s,view:back}):'';return behind?'<div class="page-background" inert aria-hidden="true">'+behind+'</div>':'';}
@@ -1266,7 +1266,7 @@ const gallery=document.getElementById('gallery');gallery.innerHTML=cards.map((c,
 // The range slider reports each change; keep the draft and the live count in step.
 gallery.addEventListener('sentri-range-change',e=>{const root=e.target.closest('[data-card]'),c=roomContext(states[+root.dataset.card]);if(/^foster/.test(e.detail.key)){const s=states[+root.dataset.card];Object.assign(s.fosterDraft.filterDraft,e.detail.values);const n=fosterShown(s,s.fosterDraft.filterDraft);e.target.closest('.sheet').querySelector('[data-action="fosterFilterApply"]').textContent='Show '+n+' '+(n===1?'sow':'sows');return;}Object.assign(c.filterDraft,e.detail.values);const n=visibleRoomRecords(c,c.filterDraft).length;e.target.closest('.sheet').querySelector('[data-action="room-apply-filter"]').textContent='Show '+n+' '+(n===1?'sow':'sows');});
 // Choose pigs: typing narrows the list where it is, so the field keeps focus; Clear shows only while something is typed.
-gallery.addEventListener('input',e=>{if(!e.target.matches('[data-hand-pen-search]'))return;const i=+e.target.closest('[data-card]').dataset.card,s=states[i],sh=e.target.closest('.sheet');s.handDraft.q=e.target.value;const opts=handPenOptions(s);sh.querySelector('.hand-pen-list').innerHTML=opts.length?SentriUI.pickerOptions({options:opts,action:'handPen'}):`<p class="st-find-hint">No pen matching “${esc(s.handDraft.q.trim())}”.</p>`;sh.querySelector('[data-action="handPenClear"]')?.toggleAttribute('hidden',!s.handDraft.q);});
+gallery.addEventListener('input',e=>{if(!e.target.matches('[data-alloc-pen-search]'))return;const i=+e.target.closest('[data-card]').dataset.card,s=states[i],sh=e.target.closest('.sheet');s.fosterDraft.penQ=e.target.value;sh.querySelector('.hand-pen-list').innerHTML=allocPenList(s);sh.querySelector('[data-action="allocPenClear"]')?.toggleAttribute('hidden',!s.fosterDraft.penQ);});
 gallery.addEventListener('input',e=>{if(!e.target.matches('[data-foster-id-search]'))return;const i=+e.target.closest('[data-card]').dataset.card,s=states[i],box=e.target.closest('.foster-ids');s.fosterDraft.idQ=e.target.value;box.querySelector('.foster-id-scroll').innerHTML=fosterIdRows(fosterIds(fosterFrom(s)),s.fosterDraft);fosterIdMore(box.querySelector('.foster-id-scroll'));box.querySelector('[data-action="fosterIdClear"]')?.toggleAttribute('hidden',!s.fosterDraft.idQ);});
 gallery.addEventListener('input',e=>{if(!e.target.matches('[data-foster-search]'))return;const i=+e.target.closest('[data-card]').dataset.card,s=states[i],page=e.target.closest('.foster-pick');s.fosterDraft.q=e.target.value;page.querySelector('.foster-list').innerHTML=fosterPickList(s);page.querySelector('[data-action="fosterClear"]')?.toggleAttribute('hidden',!s.fosterDraft.q);if(i===0&&window.AtlasBare)AtlasBare.watch(()=>atlasScreen(s,roomContext(s)));});
 gallery.addEventListener('input',e=>{if(!e.target.matches('[data-batch-search]'))return;const i=+e.target.closest('[data-card]').dataset.card,c=roomContext(states[i]),page=e.target.closest('.batch-pick');c.batch.q=e.target.value;page.querySelector('.batch-list').innerHTML=batchRows(c);page.querySelector('[data-action="room-batch-clear"]')?.toggleAttribute('hidden',!c.batch.q);});
@@ -1274,8 +1274,8 @@ gallery.addEventListener('input',e=>{if(!e.target.matches('[data-room-search]'))
 // The demo's own control, outside the phone: the reader reads the next sample sow.
 document.addEventListener('click',e=>{const b=e.target.closest('[data-demo-scan]');if(!b||b.disabled)return;const i=+b.closest('[data-card]').dataset.card,s=states[i],c=roomContext(s);
  // Foster, scanning: a read opens the count for the sow read (single-action), as tapping her does; the reader connecting starts it.
- if(s.view==='allocHandPen'&&s.handDraft?.scanning){const d=s.handDraft;if(d.scanning==='waiting'){c.scan.connected=true;d.scanning=true;render(i);return;}const o=handPenOptions(s).find(o=>!o[4]);if(o)act(s,'handPen',o[0]);render(i);return;}   // a plate read picks that pen
- if(s.view==='fosterSend'&&s.fosterDraft.idScan){const f=s.fosterDraft;if(f.idScan==='waiting'){c.scan.connected=true;f.idScan=true;render(i);return;}const next=fosterIds(fosterFrom(s)).find(p=>!f.ids.includes(p.tag));if(next){f.ids.push(next.tag);f.idRead=next.tag;}render(i);return;}   // a read ticks that piglet
+ if(s.view==='allocPen'&&s.fosterDraft?.penScan){const f=s.fosterDraft;if(f.penScan==='waiting'){c.scan.connected=true;f.penScan=true;render(i);return;}const o=allocPenOptions(s).find(o=>!o[4]);if(o)act(s,'allocPen',o[0]);render(i);return;}   // a plate read moves them there
+ if(['fosterSend','allocate'].includes(s.view)&&s.fosterDraft?.idScan){const f=s.fosterDraft;if(f.idScan==='waiting'){c.scan.connected=true;f.idScan=true;render(i);return;}const next=fosterIds(fosterFrom(s)).find(p=>!f.ids.includes(p.tag));if(next){f.ids.push(next.tag);f.idRead=next.tag;}render(i);return;}   // a read ticks that piglet
  if(fosterPicking(s)&&s.fosterDraft.scanning&&!s.fosterDraft.target){const f=s.fosterDraft;if(f.scanning==='waiting'){c.scan.connected=true;f.scanning=true;render(i);return;}const list=fosterCandidates(s),x=list[f.seq++%list.length];if(x)act(s,'fosterPick',x.r.tag);render(i);return;}
  // Choosing pigs, scanning: a read ticks her and marks her row (a repeat read keeps her ticked); a pig from another unit isn't added (a toast says where she is).
  if(s.view==='roomBatchPick'&&c.batch.scanning){const b=c.batch,tag=b.scanning==='waiting'?'':batchScans[b.seq++%batchScans.length],p=unitPigs(c).find(x=>x.tag===tag);if(b.scanning==='waiting'){c.scan.connected=true;b.scanning=true;render(i);return;}   // the reader connects: scanning starts

diff --git a/ux/design-system/components/bundle.css b/ux/design-system/components/bundle.css
@@ -1663,13 +1663,9 @@ input::placeholder,textarea::placeholder{color:var(--ink-2);opacity:1}
 .farrowing-phone .alloc-done-body{padding-bottom:var(--space-24)}
 .farrowing-phone .allocate-body{padding-bottom:var(--space-24)}   /* the question's card keeps the section space above the footer */
 .farrowing-phone .allocate-question{margin:0 0 var(--space-12)}
-/* Hand-rear (owner, 2026-11-03): a pen moved to is a count row inside the white card, between her crate and Move some to another pen. */
-.farrowing-phone .hand-move{padding:var(--space-4) var(--space-row-x);border-top:var(--border-width) solid var(--rule)}
-.farrowing-phone .hand-move .st-stepper{margin:0}
-.farrowing-phone .alloc-done-body .hand-add{width:100%;margin-top:var(--space-12)}
-/* Hand-rear's default said in one line: her crate's glyph, then the sentence (owner, 2026-11-03: staying is the default, nothing to tap). */
-.farrowing-phone .hand-note{display:flex;align-items:flex-start;gap:var(--space-12)}
-.farrowing-phone .hand-note>svg{flex:none;width:var(--size-20);height:var(--size-20);margin-top:2px;color:var(--row-icon-ink)}
-.farrowing-phone .hand-note p{margin:0;font:500 var(--type-row-title-size)/1.45 var(--font-sans);color:var(--ink)}
 .farrowing-phone .hand-pen-bar{margin-bottom:var(--space-12)}
 .farrowing-phone .hand-pen-bar .st-choice-search{margin:0}
+/* Allocate piglets (owner, 2026-11-03): with piglets ticked the footer holds the two acts, Move to a pen and Send to a sow, side by side;
+   Select all / Clear sits at the end of the With ID line, a quiet text action. */
+.farrowing-phone .alloc-split .alloc-pen{flex:1;width:auto}
+.farrowing-phone .foster-ids-all{min-height:0;padding:0;font:inherit;color:var(--ink);text-decoration:underline}

diff --git a/ux/system/astra-surfaces.js b/ux/system/astra-surfaces.js
@@ -2,7 +2,7 @@
 (function(root){
 'use strict';
 const inspectionPages=new Set(['review','medicines','pig-doses','pig','pig-profile','pig-production','pig-production-batch','pig-origin','pig-log','pig-feed','pig-feed-curve','pig-feed-changes','history','pen-detail','pen-log','feed','feed-editor','unit-detail','environment','equipment','batch-detail','treatment','sow-transfer']);
-const farrowingPages=new Set(['history','fosterSend','roomOverview','roomEndTask','roomTaskReceipt','roomTaskSows','roomPenDetail','roomPenFeed','roomPenLog','marker','pigletCare','pigletEdit','foster','pigletDeath','countReconcile']);
+const farrowingPages=new Set(['history','allocate','fosterSend','roomOverview','roomEndTask','roomTaskReceipt','roomTaskSows','roomPenDetail','roomPenFeed','roomPenLog','marker','pigletCare','pigletEdit','foster','pigletDeath','countReconcile']);
 function isPage(app,view,context){return app==='inspection'?(inspectionPages.has(view)||!!(context?.form?.recordEditor&&context.form.bulk&&!['picker','medicine-picker','brand-picker','bulk-health-picker','record-optional'].includes(view))):farrowingPages.has(view);}
 const api={isPage};root.AstraSurfaces=api;if(typeof module!=='undefined')module.exports=api;
 })(globalThis);
